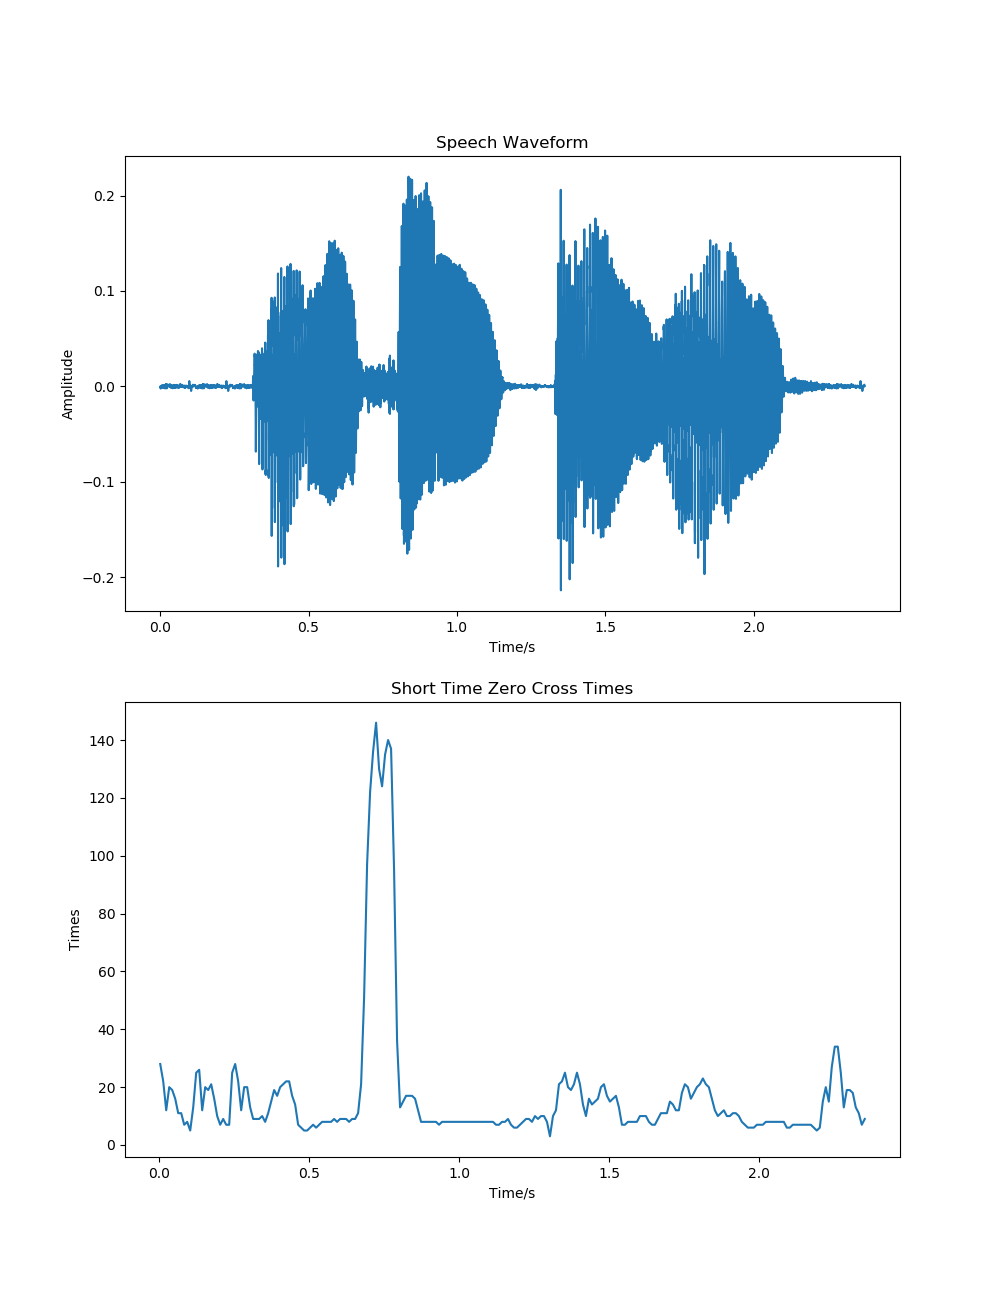
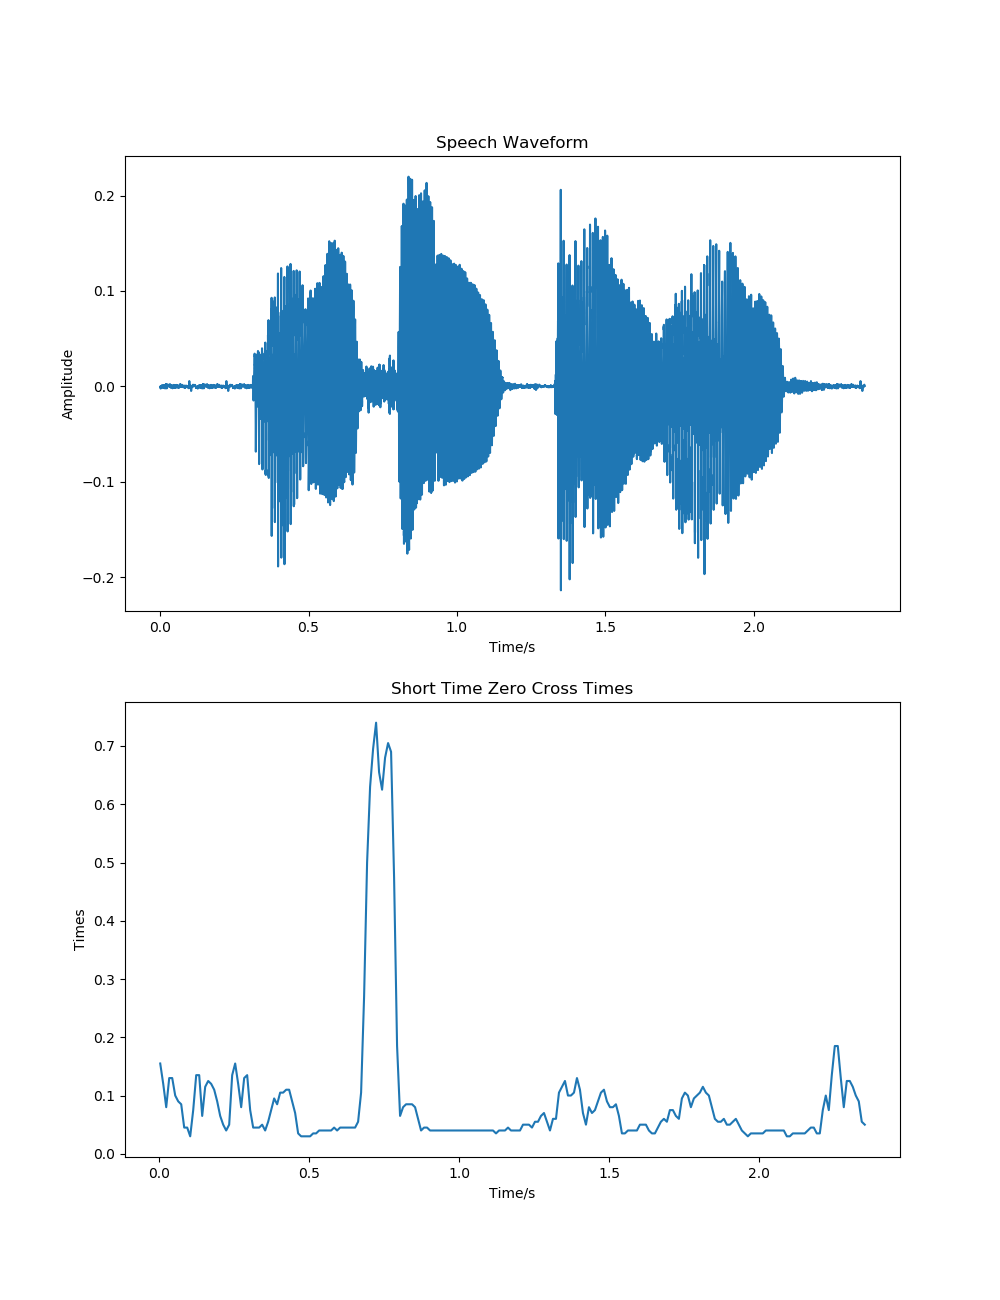
Add librosa.feature.zero_crossing_rate

diff --git a/Chapter2_TimeFrequency_ShortTime/pr2_3_2_librosa.py b/Chapter2_TimeFrequency_ShortTime/pr2_3_2_librosa.py
@@ -1,0 +1,38 @@
+# 短时平均过零率
+
+from Universal import *
+from enframe import enframe
+import matplotlib.pyplot as plt
+import numpy as np
+
+
+if __name__ == '__main__':
+	Speech =  Speech("bluesky3.wav")
+	x, Fs =Speech.audioread(8000)
+	# x = x / np.max(np.abs(x))
+	inc = 80
+	wlen = 200
+	win = np.hanning(wlen)
+	N = len(x)
+	zcr = librosa.feature.zero_crossing_rate(x, frame_length = wlen, hop_length = inc, center = False)
+	X = enframe(x, win, inc)
+	fn = X.shape[0]
+
+	time = [i / Fs for i in range(N)]
+
+	frameTime = Speech.FrameTime(fn, wlen, inc, Fs)
+
+	fig = plt.figure(figsize=(10, 13))
+	plt.subplot(2, 1, 1)
+	plt.plot(time, x)
+	plt.xlabel('Time/s')
+	plt.ylabel('Amplitude')
+	plt.title('Speech Waveform')
+	plt.subplot(2, 1, 2)
+	plt.plot(frameTime, zcr.T)
+	plt.xlabel('Time/s')
+	plt.ylabel('Times')
+	plt.title('Short Time Zero Cross Times')
+	plt.savefig('images/zcr.png')
+	plt.show()
+
